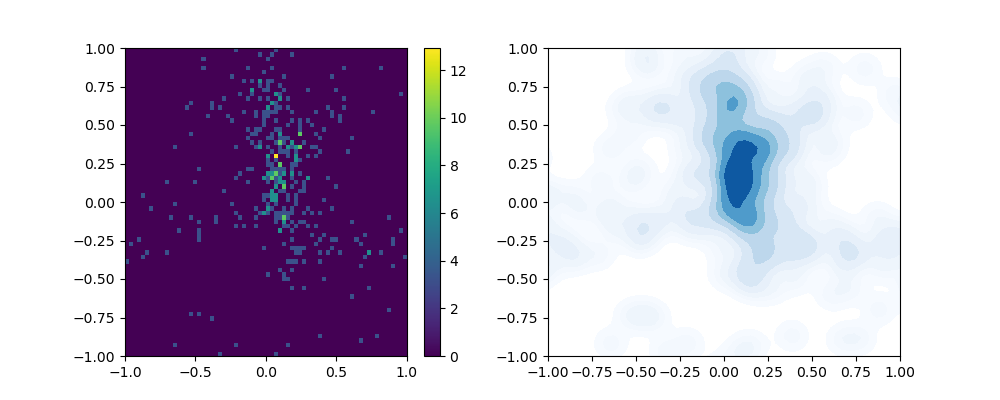
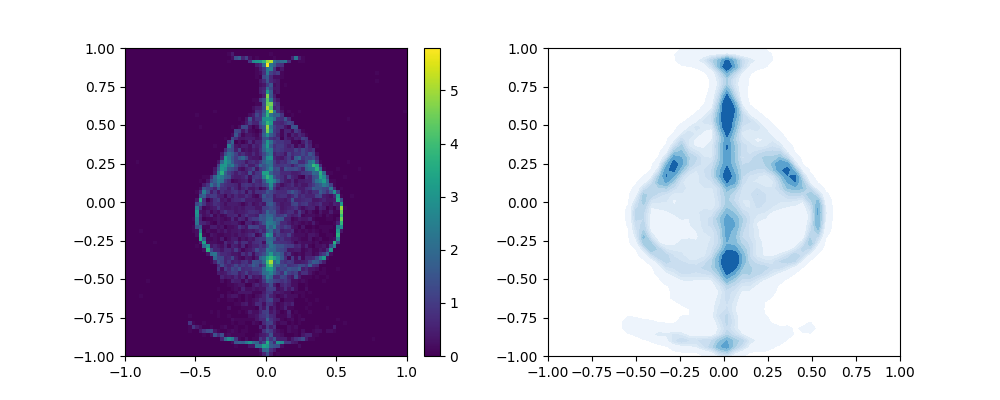
generic commit

diff --git a/scripts/transport/cflow_transport.py b/scripts/transport/cflow_transport.py
@@ -70,7 +70,7 @@ class Comp_transport_model:
 
         n = len(self.submodel_params['Lambda'])
         eps = .01
-        self.noise_shrink_c = np.exp(np.log(eps)/n)
+        self.noise_shrink_c = np.exp(np.log(eps)/(n-25))
 
 
         if device:
@@ -339,7 +339,7 @@ def comp_cond_kernel_transport(X_mu, Y_mu, Y_eta, params, n_iter = 1001, n = 50,
     model_params = {'fit_kernel': [], 'Lambda': [], 'X': []}
     iters = 0
     eps = .01
-    noise_shrink_c = np.exp(np.log(eps) / n)
+    noise_shrink_c = np.exp(np.log(eps) / (n-25))
 
     for i in range(n):
         model = cond_kernel_transport(X_mu, Y_mu, Y_eta, params, n_iter, Y_eta_test = Y_eta_test,
@@ -348,7 +348,6 @@ def comp_cond_kernel_transport(X_mu, Y_mu, Y_eta, params, n_iter = 1001, n = 50,
         model_params['Lambda'].append(model.get_Lambda().detach().cpu().numpy())
         model_params['fit_kernel'].append(model.fit_kernel)
         model_params['X'].append(model.X.detach().cpu().numpy())
-
 
         if i==0:
             pass
@@ -556,7 +555,7 @@ def spheres_exp(N = 5000, n_iter = 10, exp_name = 'spheres_exp', n_transports = 
                     range=plt_range)
     return True
 
-def elden_exp(N=10000, n_iter=101, exp_name='elden_exp', n_transports=50):
+def elden_exp(N=10000, n_iter=101, exp_name='elden_exp', n_transports=55):
     ref_gen = sample_normal
     target_gen = sample_elden_ring
     idx_dict = {'ref': [[0, 1]], 'cond': [[]],'target': [[0,1]]}
@@ -651,7 +650,7 @@ def vl_exp(N=10000, n_iter=10000, Yd=18, normal=True, exp_name='vl_exp'):
 
 
 def run():
-    elden_exp(8000,n_transports=50)
+    elden_exp(1000,n_transports=55)
     #spheres_exp(5000, 101, exp_name='sphere_check')
     #vl_exp(5000, 3000, exp_name = 'vl_exp')
 
